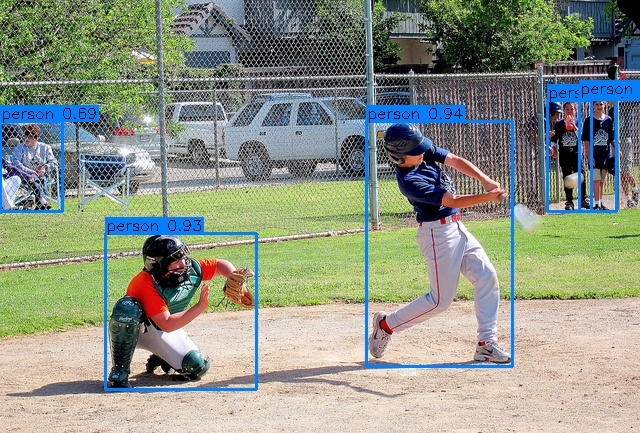
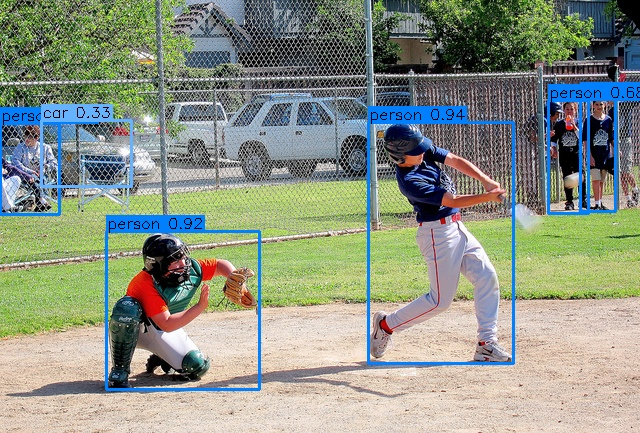
docs(readme): split the scorecard and refresh the demo renders
- the opening scorecard is now two tables — accuracy & size (mAP / mAP@50 /
  params / GFLOPs) and latency (ORT-CPU b1/b8 + TensorRT b1/b8, fp32 and fp16) —
  each with its own Δ row against the budget-matched YOLO26n; the TRT b1 fp16 tie
  (~1.20 ms, previously only in a footnote) is now a column of its own
- ORT-CPU latency measured for the first time (interleaved A/B, best-of-N, two
  repeats, E2E graphs: b1 fixed-batch export, b8 dynamic): 14.5 / 5.6 ms per image
  for flash-yolo vs 17.5 / 13.0 for YOLO26n — the small-model advantage is
  invisible at batch 1 on the 5090 (launch-bound) and largest on CPU at batch 8;
  the numbers are marked provisional in the README (a training run shared the CPU,
  b1 is the least stable of the set — quiet re-measurement planned)
- docs/flash-yolo-spec.md records the re-measurement and warns that the 2026-10-09
  "+45% ORT-CPU" figure was an unloaded random-weight measurement — the two regimes
  are not comparable
- demo renders: assets/traffic_det.jpg and assets/baseball_det.jpg are re-rendered
  with the 100-epoch checkpoint (previously the screening weights), the README
  caption says so, and assets/README.md carries the exact commands (train + infer)

diff --git a/README.md b/README.md
@@ -15,17 +15,29 @@
   <img src="assets/traffic_det.jpg" width="49%" alt="flash-yolo detections — street traffic">
   <img src="assets/baseball_det.jpg" width="49%" alt="flash-yolo detections — baseball">
   <br>
-  <em>Detections by flash-yolo — COCO val2017 samples, 640 input</em>
+  <em>Detections by the 100-epoch flash-yolo checkpoint — COCO val2017 samples, 640 input</em>
 </p>
 
-| Model | mAP@[.5:.95] | mAP@50 | Params | GFLOPs @640 | ORT-CPU b1 (ms) | TRT b1 fp32 (ms) | TRT b8 fp32 (ms/img) | TRT b8 fp16 (ms/img) |
-|---|---|---|---|---|---|---|---|---|
-| YOLO26n · official weights | 40.27 | 55.80 | 2.57M | 5.48 | —³ | 1.38 | 0.252 | 0.141 |
-| YOLO26n · this repo, 100 ep | 36.22 | 51.32 | 2.57M | 5.48 | —³ | 1.38 | 0.252 | 0.141 |
-| flash-yolo · this repo, 100 ep | 33.77 | 48.63 | 1.97M | 3.80 | —³ | 1.33 | 0.213 | 0.130 |
-| **Δ (flash-yolo vs YOLO26n)** | **−2.45 (−7%)** | **−2.69 (−5%)** | **−0.60M (−23%)** | **−1.68 (−31%)** | **—** | **−0.05 (−4%)** | **−0.039 (−15%)** | **−0.011 (−8%)** |
+**Accuracy & size** — COCO val2017, official pycocotools (`scripts/eval.py`), E2E (NMS-free) at 640:
 
-¹ flash-yolo trained from scratch for 100 epochs — same recipe, data and budget as the from-scratch YOLO26n row above, so that Δ is like for like. ² COCO val2017 · pycocotools · E2E (NMS-free) at 640; speed: TensorRT on one RTX 5090, inference stage, best-case min across repeated runs on a shared box (two trainings ran throughout) — b1 fp16 is ~1.20 ms for both models (the b1 column above is the fp32 chain). Δ compares against the budget-matched from-scratch YOLO26n — for structure/latency both YOLO26n rows are identical. Details: [YOLO26n alignment](#yolo26n-alignment-with-the-official-weights). ³ ORT-CPU (Intel Xeon Platinum 8470Q, 25-core container quota) is pending a quiet re-measurement — under the current training load the CPU delta is not measurable reliably.
+| Model | mAP@[.5:.95] | mAP@50 | Params | GFLOPs @640 |
+|---|---|---|---|---|
+| YOLO26n · official weights | 40.27 | 55.80 | 2.57M | 5.48 |
+| YOLO26n · this repo, 100 ep | 36.22 | 51.32 | 2.57M | 5.48 |
+| flash-yolo · this repo, 100 ep¹ | 33.77 | 48.63 | 1.97M | 3.80 |
+| **Δ (flash-yolo vs YOLO26n)** | **−2.45 (−7%)** | **−2.69 (−5%)** | **−0.60M (−23%)** | **−1.68 (−31%)** |
+
+**Latency²** — model-only inference stage, best-case `min` across repeated runs; ONNX Runtime on an
+Intel Xeon Platinum 8470Q (25-core container quota), TensorRT on one RTX 5090:
+
+| Model | ORT-CPU b1 (ms) | ORT-CPU b8 (ms/img) | TRT b1 fp32 (ms) | TRT b1 fp16 (ms) | TRT b8 fp32 (ms/img) | TRT b8 fp16 (ms/img) |
+|---|---|---|---|---|---|---|
+| YOLO26n · official weights | 17.5³ | 13.0³ | 1.38 | 1.20 | 0.252 | 0.141 |
+| YOLO26n · this repo, 100 ep | 17.5³ | 13.0³ | 1.38 | 1.20 | 0.252 | 0.141 |
+| flash-yolo · this repo, 100 ep | 14.5³ | 5.6³ | 1.33 | 1.20 | 0.213 | 0.130 |
+| **Δ (flash-yolo vs YOLO26n)** | **−3.0 (−17%)** | **−7.4 (−57%)** | **−0.05 (−4%)** | **0.00** | **−0.039 (−15%)** | **−0.011 (−8%)** |
+
+¹ flash-yolo trained from scratch for 100 epochs — same recipe, data and budget as the from-scratch YOLO26n row above, so its Δ is like for like. ² The TensorRT rows were measured on a box that also ran two trainings (best-case min, so conservative); b1 fp16 ties at ~1.20 ms for both models — the b1 fp32 chain is the exactly verified one (`pt → onnx → engine`). Δ compares against the budget-matched from-scratch YOLO26n; for structure and latency both YOLO26n rows are identical. Details: [YOLO26n alignment](#yolo26n-alignment-with-the-official-weights). ³ ORT-CPU measured while a training run shared the CPU (16 loader workers on the 25-core quota) — provisional, pending a quiet re-measurement: absolute values are pessimistic and the b1 gap is the least stable of the set; b8 uses a dynamic-batch graph, b1 the fixed-batch export.
 
 - **Reproduces YOLO26n bit-identically** — the official weights load with zero key mapping
   (260 layers · 2,572,280 params) and the inference output is bit-for-bit identical. COCO val2017

diff --git a/CHANGELOG.md b/CHANGELOG.md
@@ -44,6 +44,15 @@ and this project adheres to [Semantic Versioning](https://semver.org/spec/v2.0.0
   rendered flash-yolo detections beside them; the previous ultralytics-ecosystem demo images
   (bus.jpg / zidane.jpg) are removed, and the export-parity test now uses `traffic.jpg` as its
   real-image fixture.
+- **Scorecard split, CPU latency filled in**: the opening table is now two tables — accuracy & size
+  (mAP / params / GFLOPs) and latency (ONNX Runtime CPU b1/b8 + TensorRT b1/b8, fp32 and fp16) — each
+  with its own Δ row against the budget-matched YOLO26n. The previously pending ORT-CPU column now
+  carries measured b1/b8 numbers for both models (flash-yolo 14.5 ms / 5.6 ms per image vs YOLO26n
+  17.5 / 13.0), marked as provisional: they were taken while a training run shared the CPU, so
+  absolute values are pessimistic and a quiet re-measurement is planned.
+- **Demo renders updated to the final checkpoint**: `assets/traffic_det.jpg` / `baseball_det.jpg`
+  are re-rendered with the 100-epoch from-scratch flash-yolo checkpoint (previously the screening
+  weights), and `assets/README.md` now records the exact render commands.
 - **flash-yolo's full-length results and a YOLO26n alignment table**: the README scorecard now carries
   the from-scratch flash-yolo numbers — **33.77 / 48.63** mAP@[.5:.95] / mAP@50 on COCO val2017 E2E
   and **34.72 / 50.16** with NMS, 2.4 points behind its budget-matched YOLO26n control for 31% fewer

diff --git a/docs/flash-yolo-spec.md b/docs/flash-yolo-spec.md
@@ -108,6 +108,13 @@ python scripts/train.py --data coco --model flash-yolo --cfg config/models/flash
 torch-CPU +10.9% · ORT-CPU +45% · CUDA-graph +11% · TensorRT +12.6% · eager ≈ 平
 （eager 下 260 层 Python 发射开销掩盖差异，不是模型劣势）。
 
+**ORT-CPU 复测（2026-10-11，定稿权重 + E2E 融图，b1/b8，README 表口径）**：交替 A/B、best-of-N
+两轮重复 —— b1 **14.5 vs 17.5 ms**、b8 **5.6 vs 13.0 ms/img**（flash-yolo vs yolo26n）。
+两点注意：① 测量时 v3-darknet 训练占着 16 个 loader worker（25 核配额），**绝对值偏悲观、
+b1 差距最不稳**（跨轮次 11–18 ms），表中已按"临时值"标注、待空载复测；② 10-09 那条 "+45%" 是
+空载随机权重口径，今天的受限环境下不可复现 —— 两个口径不要混用。b8 的 2.3× 优势在两轮独立测量里
+稳定（44.3/45.2 vs 103.5/105.7 ms），且方向与 TRT b8 一致。
+
 ## 5. 全长跑与验收（2026-10-11）
 
 100 轮从零训练（batch 64，与 yolo26n 控制同配方/同预算，~15.5 h）：

diff --git a/assets/README.md b/assets/README.md
@@ -1,8 +1,15 @@
 # Assets
 
 Demo images in this directory are samples from the COCO dataset (val2017), picked for
-demo-friendly scenes; the `*_det.jpg` counterparts are detections rendered by
-`scripts/infer.py` with this repo's flash-yolo model (COCO training weights, 640 input).
+demo-friendly scenes; the `*_det.jpg` counterparts are detections rendered by `scripts/infer.py`
+with the **100-epoch from-scratch flash-yolo checkpoint** (COCO train2017, 33.77 mAP@[.5:.95]);
+640 input, default inference threshold (conf 0.25). Rendered with:
+
+```bash
+python scripts/train.py --data coco --model flash-yolo --name flash-coco-e100 --batch 64 --workers 16
+python scripts/infer.py --weights runs/train/flash-coco-e100/weights/best.safetensors --image assets/traffic.jpg
+python scripts/infer.py --weights runs/train/flash-coco-e100/weights/best.safetensors --image assets/baseball.jpg
+```
 
 - `traffic.jpg` — COCO val2017 `000000336232.jpg` (dense street traffic: bus, cars, motorcycle, people)
 - `traffic_det.jpg` — detections rendered on `traffic.jpg`
